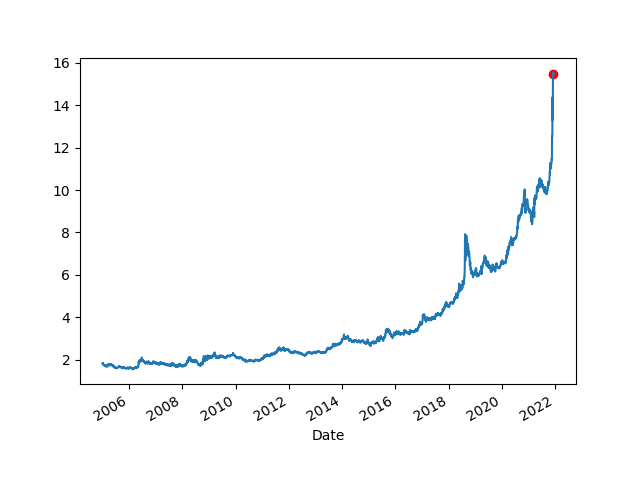
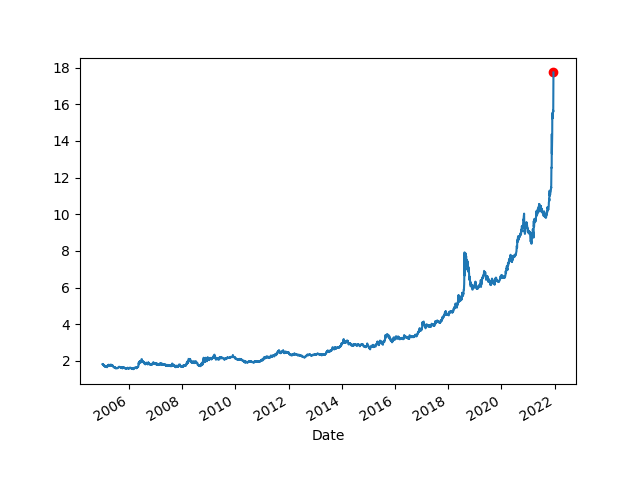
-

diff --git a/tr/2019/05/stats.md b/tr/2019/05/stats.md
@@ -12,6 +12,7 @@ end=datetime.datetime(today.year, today.month, today.day)
 cols = ['TURB6BLTT02STSAQ','RBTRBIS']
 df = data.DataReader(cols, 'fred', start, end)
 df = df.dropna()
+print (df.tail(5))
 plt.figure(figsize=(10,6))
 ax1 = df.TURB6BLTT02STSAQ.plot(color='blue', grid=True, label='TR Cari Hesap, GSYH % Olarak')
 ax2 = df.RBTRBIS.plot(color='red', grid=True, secondary_y=True, label='TR Kur')
@@ -19,6 +20,16 @@ h1, l1 = ax1.get_legend_handles_labels()
 h2, l2 = ax2.get_legend_handles_labels()
 plt.legend(h1+h2, l1+l2, loc=2)
 plt.savefig('currxch.png')
+```
+
+```text
+            TURB6BLTT02STSAQ  RBTRBIS
+DATE                                 
+2020-04-01         -5.612587    57.08
+2020-07-01         -5.655827    56.34
+2020-10-01         -5.281476    49.55
+2021-01-01         -3.262093    54.04
+2021-04-01          0.239925    50.84
 ```
 
 ![](currxch.png)
@@ -46,11 +57,11 @@ plt.savefig('try-dollar.png')
 
 ```text
 Date
-2021-12-02    13.44320
-2021-12-03    13.71710
-2021-12-06    13.63205
-2021-12-07    13.78315
-2021-12-08    13.65980
+2021-12-13    13.85489
+2021-12-14    13.80329
+2021-12-15    14.37780
+2021-12-16    14.81410
+2021-12-17    15.66075
 Name: Adj Close, dtype: float64
 ```
 
@@ -79,11 +90,11 @@ plt.savefig('try-eur.png')
 
 ```text
 Date
-2021-12-02    15.21780
-2021-12-03    15.47777
-2021-12-06    15.45506
-2021-12-07    15.55180
-2021-12-08    15.48611
+2021-12-13    15.667590
+2021-12-14    15.574390
+2021-12-15    16.167730
+2021-12-16    16.693090
+2021-12-17    17.732321
 Name: Adj Close, dtype: float64
 ```
 
